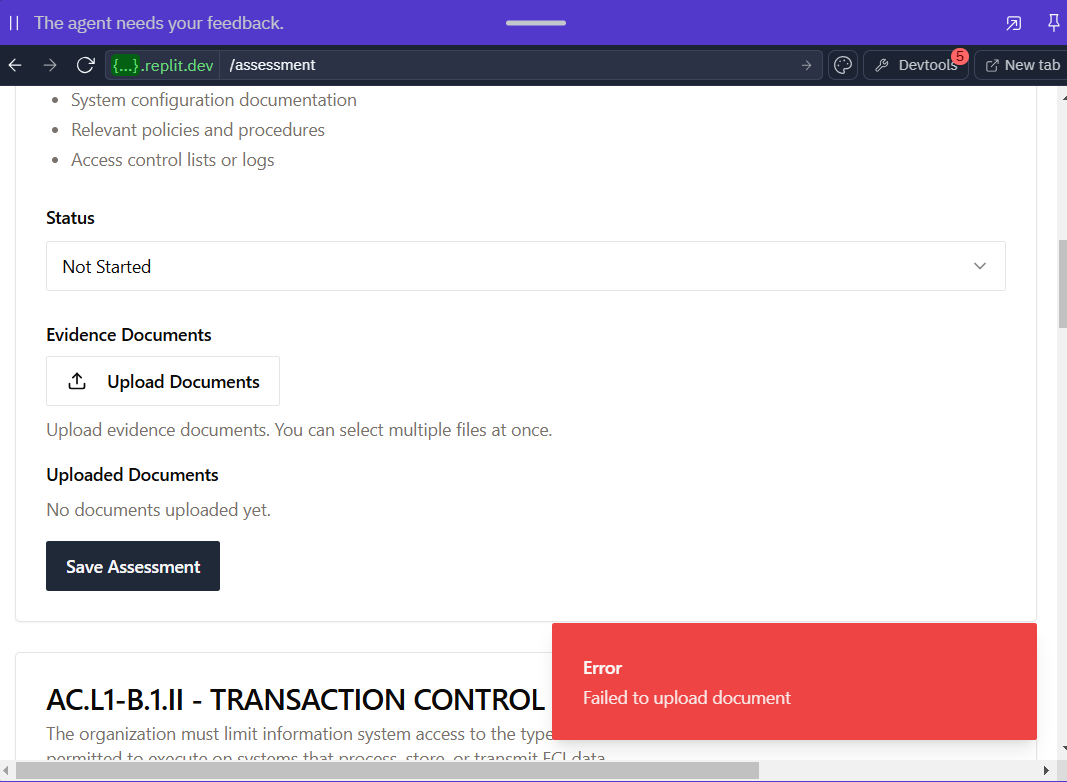
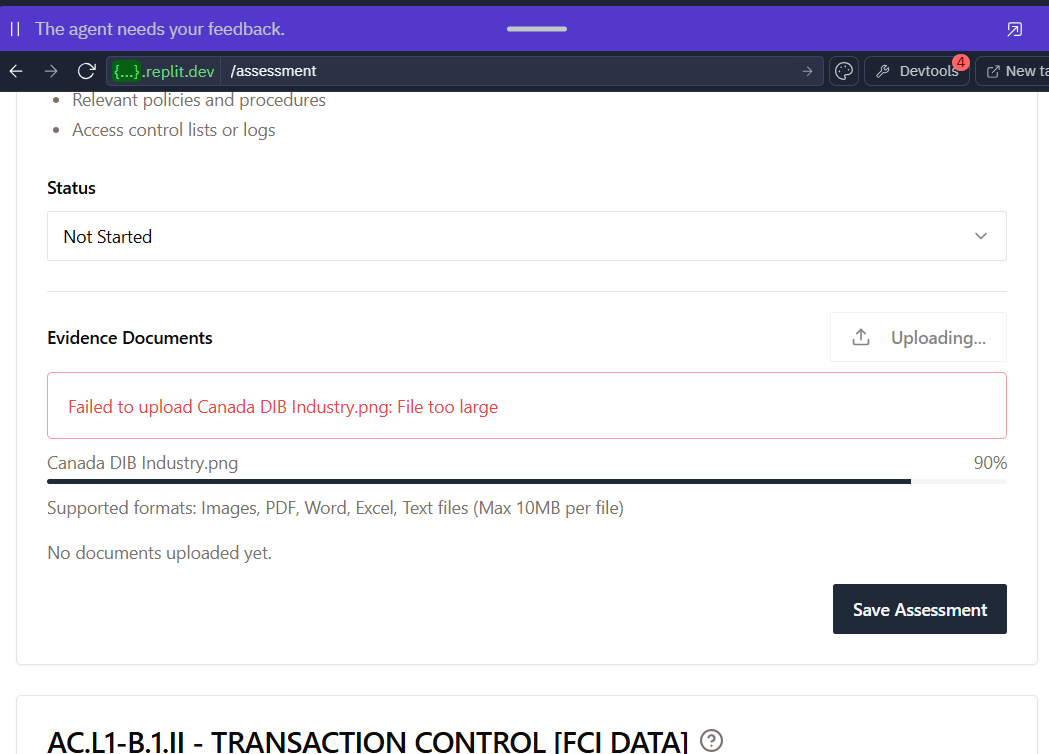
Agent query: Can you now upload larger files (up to 50MB)? The file size limit has been increased.
Increase maximum file upload size to 50MB and improve error handling for oversized files.

Screenshot: https://storage.googleapis.com/screenshot-production-us-central1/64e2b118-bfe5-4565-8ab9-2fb8046d8d98/7ba7de5d-e9e9-4a6a-a5a6-1519ee685b51.jpg

diff --git a/server/routes.ts b/server/routes.ts
@@ -6,8 +6,19 @@ import { eq } from "drizzle-orm";
 
 export function registerRoutes(app: Express): Server {
   // Configure middleware for handling file uploads with proper limits
-  app.use(express.json({ limit: '100mb' }));
-  app.use(express.urlencoded({ limit: '100mb', extended: true }));
+  app.use(express.json({ limit: '50mb' }));
+  app.use(express.urlencoded({ limit: '50mb', extended: true }));
+  
+  // Add specific error handling for large files
+  app.use((err: any, req: any, res: any, next: any) => {
+    if (err instanceof SyntaxError && err.status === 413) {
+      return res.status(413).json({
+        error: 'File too large',
+        message: 'The uploaded file exceeds the maximum allowed size of 50MB.'
+      });
+    }
+    next(err);
+  });
   
   // Comprehensive error handling middleware
   app.use((err: any, req: any, res: any, next: any) => {

diff --git a/client/src/components/DocumentUpload.tsx b/client/src/components/DocumentUpload.tsx
@@ -38,13 +38,14 @@ export function DocumentUpload({
     try {
       const fileArray = Array.from(files);
       
-      // Validate file sizes (10MB limit)
-      const oversizedFiles = fileArray.filter(file => file.size > 10 * 1024 * 1024);
+      // Validate file sizes (50MB limit)
+      const MAX_FILE_SIZE = 50 * 1024 * 1024; // 50MB in bytes
+      const oversizedFiles = fileArray.filter(file => file.size > MAX_FILE_SIZE);
       if (oversizedFiles.length > 0) {
         throw new Error(
-          `The following files exceed the 10MB limit: ${oversizedFiles
+          `The following files exceed the 50MB limit: ${oversizedFiles
             .map(f => f.name)
-            .join(", ")}`
+            .join(", ")}. Maximum file size is 50MB.`
         );
       }
 
